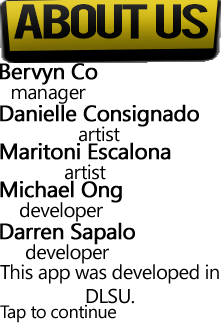
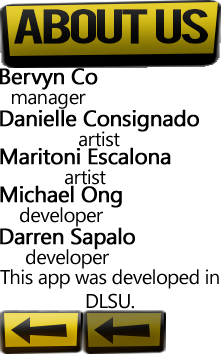
Added more people and binded it to PersonView.

diff --git a/bad-vibes-game/src/com/mobi/badvibes/AboutScreen.java b/bad-vibes-game/src/com/mobi/badvibes/AboutScreen.java
@@ -1,17 +1,28 @@
 package com.mobi.badvibes;
 
+import aurelienribon.tweenengine.BaseTween;
 import aurelienribon.tweenengine.Timeline;
 import aurelienribon.tweenengine.Tween;
+import aurelienribon.tweenengine.TweenCallback;
 import aurelienribon.tweenengine.TweenEquations;
 
 import com.badlogic.gdx.Gdx;
 import com.badlogic.gdx.graphics.GL20;
 import com.badlogic.gdx.graphics.Texture;
 import com.badlogic.gdx.math.Rectangle;
+import com.badlogic.gdx.scenes.scene2d.InputEvent;
+import com.badlogic.gdx.scenes.scene2d.InputListener;
 import com.badlogic.gdx.scenes.scene2d.Stage;
+import com.badlogic.gdx.scenes.scene2d.ui.Button;
+import com.badlogic.gdx.scenes.scene2d.ui.Button.ButtonStyle;
+import com.badlogic.gdx.scenes.scene2d.ui.Image;
+import com.badlogic.gdx.scenes.scene2d.utils.TextureRegionDrawable;
 import com.mobi.badvibes.nimators.BadVibesScreenAccessor;
 import com.mobi.badvibes.util.ContentManager;
+import com.mobi.badvibes.util.GameUtil;
 import com.mobi.badvibes.view.GameDimension;
+import com.mobi.badvibes.view.graphics.BVTexture;
+import com.mobi.badvibes.view.graphics.BVTextureRegion;
 
 public class AboutScreen extends BadVibesScreen
 {
@@ -44,6 +55,115 @@ public class AboutScreen extends BadVibesScreen
         
         platformPosition            = new Rectangle(0, GameDimension.PlatformOffset,
                                                     platformWidth, platformHeight);
+
+        BVTexture                   aboutSprite         = new BVTexture(Gdx.files.internal("data/about/about.png"));
+        
+        BVTextureRegion             aboutUs             = new BVTextureRegion(aboutSprite, new Rectangle(  0,   0,
+                                                                                                         221,  68));
+        
+        BVTextureRegion             nameBervyn          = new BVTextureRegion(aboutSprite, new Rectangle(  0,  68,
+                                                                                                          98, 41));
+        BVTextureRegion             nameIelle           = new BVTextureRegion(aboutSprite, new Rectangle(  0, 109,
+                                                                                                         199, 38));
+        BVTextureRegion             nameMarit           = new BVTextureRegion(aboutSprite, new Rectangle(  0, 147,
+                                                                                                         171, 38));
+        BVTextureRegion             nameMichael         = new BVTextureRegion(aboutSprite, new Rectangle(  0, 185,
+                                                                                                         122, 42));
+        BVTextureRegion             nameDarren          = new BVTextureRegion(aboutSprite, new Rectangle(  0, 227,
+                                                                                                         135, 42));
+        
+        BVTextureRegion             backUp              = new BVTextureRegion(aboutSprite, new Rectangle(  0, 309,
+                                                                                                          83,  45));
+        BVTextureRegion             backPress           = new BVTextureRegion(aboutSprite, new Rectangle( 83, 309,
+                                                                                                          83,  45));
+        
+        Image                       aboutUsImage        = new Image(aboutUs);
+        
+                                    aboutUsImage.setPosition(GameUtil.convertToScaledFactor(296),
+                                                             GameUtil.convertToScaledFactor(396));
+
+        aboutScreenStage.addActor(aboutUsImage);
+
+        Image                       nameBervynImage     = new Image(nameBervyn);
+
+                                    nameBervynImage.setPosition(GameUtil.convertToScaledFactor( 88),
+                                                                GameUtil.convertToScaledFactor(115));
+
+        aboutScreenStage.addActor(nameBervynImage);
+                                    
+        Image                       nameIelleImage      = new Image(nameIelle);
+
+                                    nameIelleImage.setPosition(GameUtil.convertToScaledFactor(306),
+                                                               GameUtil.convertToScaledFactor(310));
+
+        aboutScreenStage.addActor(nameIelleImage);
+                                                                
+        Image                       nameMaritImage      = new Image(nameMarit);
+
+                                    nameMaritImage.setPosition(GameUtil.convertToScaledFactor(564),
+                                                               GameUtil.convertToScaledFactor(115));
+
+        aboutScreenStage.addActor(nameMaritImage);
+
+        Image                       nameMichaelImage    = new Image(nameMichael);
+        
+                                    nameMichaelImage.setPosition(GameUtil.convertToScaledFactor(142),
+                                                                 GameUtil.convertToScaledFactor(260));
+        
+        aboutScreenStage.addActor(nameMichaelImage);
+
+        Image                       nameDarrenImage     = new Image(nameDarren);
+
+                                    nameDarrenImage.setPosition(GameUtil.convertToScaledFactor(535),
+                                                                GameUtil.convertToScaledFactor(260));
+
+        aboutScreenStage.addActor(nameDarrenImage);
+
+        ButtonStyle                 backStyle           = new ButtonStyle();
+        
+                                    backStyle.up        = new TextureRegionDrawable(backUp);
+                                    backStyle.down      = new TextureRegionDrawable(backPress);
+        
+        Button                      backButton          = new Button(backStyle);
+                                    
+                                    backButton.setPosition(GameUtil.convertToScaledFactor(20),
+                                                           GameUtil.convertToScaledFactor(20));
+        
+        aboutScreenStage.addActor(backButton);
+
+        final TweenCallback animationInfoComplete = new TweenCallback()
+        {
+            @Override
+            public void onEvent(int type, BaseTween<?> source)
+            {
+                if (type == TweenCallback.END)
+                {
+                    BadVibes.getInstance().setScreen(BadVibes.mainMenuScreen);
+                }
+            }
+        };
+
+        backButton.addListener(new InputListener()
+        {
+            @Override
+            public boolean touchDown(InputEvent event, float x, float y, int pointer, int button)
+            {
+                return true;
+            }
+            
+            @Override
+            public void touchUp(InputEvent event, float x, float y, int pointer, int button)
+            {
+                Timeline.createSequence()
+                
+                .push(Tween.to      (AboutScreen.this, BadVibesScreenAccessor.OPACITY, 0.5f)
+                           .target  (0.0f)
+                           .ease    (TweenEquations.easeInCubic))
+        
+                .setCallbackTriggers(TweenCallback.END).setCallback(animationInfoComplete)
+                .start              (BadVibes.tweenManager);
+            }
+        });
 
         Tween.registerAccessor(AboutScreen.class, new BadVibesScreenAccessor());
         
@@ -94,13 +214,13 @@ public class AboutScreen extends BadVibesScreen
     @Override
     public void show()
     {
-
+        Gdx.input.setInputProcessor(aboutScreenStage);
     }
 
     @Override
     public void hide()
     {
-
+        Gdx.input.setInputProcessor(null);
     }
 
     @Override

diff --git a/bad-vibes-game/src/com/mobi/badvibes/view/PersonView.java b/bad-vibes-game/src/com/mobi/badvibes/view/PersonView.java
@@ -59,8 +59,6 @@ public class PersonView implements Poolable
         NORMAN_THE_NORMAL, PATRICK_THE_PUSHER, CARL_THE_COUNTERFLOWER
     }
 
-    private static Texture                  shadowfeet;
-
     private static final int                FRAME_COLS     = 4;
     private static final int                FRAME_ROWS     = 4;
 
@@ -127,22 +125,10 @@ public class PersonView implements Poolable
 
         for (int i = 0; i < 15; i++)
         {
-            int         randomPick  = random.nextInt();
-            PersonEntry newView     = null;
+            PersonEntry newView     = setPersonView();
             
-            if      (randomPick % 2 == 0)
-            {
-                newView = new PersonEntry(Load("data/game/person1.png"));
-            }
-            else // if (randomPick % 3 == 0)
-            {
-                newView = new PersonEntry(Load("data/game/person2.png"));
-            }
-
             NormanTheNormal.add(newView);
         }
-
-        shadowfeet = new Texture(Gdx.files.internal("data/game/shadowfeet.png"));
     }
 
     public static PersonView getView(Character character)
@@ -162,19 +148,9 @@ public class PersonView implements Poolable
                 }
             }
 
-            int         randomPick  = random.nextInt();
-            PersonEntry newView     = null;
-            
-            if      (randomPick % 2 == 0)
-            {
-                newView = new PersonEntry(Load("data/game/person1.png"));
-            }
-            else // if (randomPick % 3 == 0)
-            {
-                newView = new PersonEntry(Load("data/game/person2.png"));
-            }
-            
-            newView.taken = true;
+            PersonEntry newView     = setPersonView();
+                        newView.taken = true;
+
             NormanTheNormal.add(newView);
 
             return newView.view;
@@ -209,6 +185,48 @@ public class PersonView implements Poolable
         }
     }
 
+    private static PersonEntry setPersonView()
+    {
+        int      randomPick  = Math.abs(random.nextInt());
+
+        System.out.println(randomPick);
+        
+        if      (randomPick % 100 == 0)
+        {
+            return new PersonEntry(Load("data/game/person4.png"));
+        }
+        else if (randomPick % 8 == 0)
+        {
+            return new PersonEntry(Load("data/game/person7.png"));
+        }
+        else if (randomPick % 7 == 0)
+        {
+            return new PersonEntry(Load("data/game/person6.png"));
+        }
+        else if (randomPick % 6 == 0)
+        {
+            return new PersonEntry(Load("data/game/person5.png"));
+        }
+        else if (randomPick % 4 == 0)
+        {
+            return new PersonEntry(Load("data/game/person3.png"));
+        }
+        else if (randomPick % 3 == 0)
+        {
+            return new PersonEntry(Load("data/game/person2.png"));
+        }
+        else if      (randomPick % 2 == 0)
+        {
+            return new PersonEntry(Load("data/game/person1.png"));
+        }
+        else
+        {
+            System.out.println("eh.");
+            
+            return new PersonEntry(Load("data/game/person1.png"));
+        }
+    }
+    
     protected static PersonView Load(String path)
     {
         return new PersonView(0.15f, path);
@@ -347,36 +365,29 @@ public class PersonView implements Poolable
         Vector2 emotionPosition = getEmotionPosition();
 
         spriteBatch.begin();
-	        /** Draw the shadow **/
-        
-            // Marit added shadows in the revised persons.... hrm...
-	        // Vector2 shadowPosition = getShadowPosition();
-	        // spriteBatch.setColor(1f, 1f, 1f, ((currentState == State.PICKED_UP) ? 0.3f : 0.5f));
-	        // spriteBatch.draw(shadowfeet, shadowPosition.x, shadowPosition.y, GameDimension.Shadow.x, GameDimension.Shadow.y);
-	        
-	        /** Draw the person **/
-	        if (tint == null)
-	        	spriteBatch.setColor(1f, 1f, ((currentState == State.PICKED_UP) ? 0.5f : 1.0f), opacity);
-	        else
-	        	spriteBatch.setColor(tint);
-	        spriteBatch.draw(region, computedPosition.x, computedPosition.y, 0, 0, GameDimension.Person.x, GameDimension.Person.y, 1.0f, 1.0f, 0f);
-	        
-	        /** Draw the emotion **/
-	        spriteBatch.setColor(1f, 1f, 1f, emotionOpacity);
-	        if (emotionRegion != null)
-                spriteBatch.draw(emotionRegion, emotionPosition.x, emotionPosition.y, 0, 0, GameDimension.Emotions.x, GameDimension.Emotions.y, 1.0f, 1.0f, 0f);
-	        
-//	        TextBounds bounds = defaultFont.getBounds(person.toString());
-//	        Vector2 pos = new Vector2(emotionPosition);
-//	        pos.sub(new Vector2(bounds.width, bounds.height).div(2));
-//	        defaultFont.draw(spriteBatch, person.toString(), pos.x, pos.y);
-	    spriteBatch.end();
 
-        /** Draw hitbox for debugging */
-//	    shapeRenderer.setColor(Color.BLACK);
-//	    shapeRenderer.begin(ShapeType.FilledRectangle);
-//	    shapeRenderer.filledRect(HitBounds.x, HitBounds.y, HitBounds.width, HitBounds.height);
-//	    shapeRenderer.end();
+        /** Draw the shadow **/
+
+        // Marit added shadows in the revised persons.... hrm...
+        // Vector2 shadowPosition = getShadowPosition();
+        // spriteBatch.setColor(1f, 1f, 1f, ((currentState == State.PICKED_UP) ? 0.3f : 0.5f));
+        // spriteBatch.draw(shadowfeet, shadowPosition.x, shadowPosition.y,
+        // GameDimension.Shadow.x, GameDimension.Shadow.y);
+
+        /** Draw the person **/
+        if (tint == null)
+            spriteBatch.setColor(1f, 1f, ((currentState == State.PICKED_UP) ? 0.5f : 1.0f), opacity);
+        else
+            spriteBatch.setColor(tint);
+        spriteBatch.draw(region, computedPosition.x, computedPosition.y, 0, 0, GameDimension.Person.x, GameDimension.Person.y, 1.0f, 1.0f, 0f);
+
+        /** Draw the emotion **/
+        spriteBatch.setColor(1f, 1f, 1f, emotionOpacity);
+
+        if (emotionRegion != null)
+            spriteBatch.draw(emotionRegion, emotionPosition.x, emotionPosition.y, 0, 0, GameDimension.Emotions.x, GameDimension.Emotions.y, 1.0f, 1.0f, 0f);
+
+        spriteBatch.end();
     }
 
     public void setEmotion(Person person, Emotions e)
@@ -395,11 +406,12 @@ public class PersonView implements Poolable
         return Position.cpy().add((GameDimension.Cell.x - GameDimension.Person.x) / 2.0f, 0).sub(0, GameDimension.Cell.y).add(pickupOffset);
     }
 
+    /*
     private Vector2 getShadowPosition()
     {
         return Position.cpy().add((GameDimension.Cell.x - GameDimension.Shadow.x) / 2.0f, 0).add(0, GameDimension.Cell.y * 0.95f);
     }
-
+    */
     private TextureRegion getCurrentEmotion(Emotions e)
     {
         switch (e)
